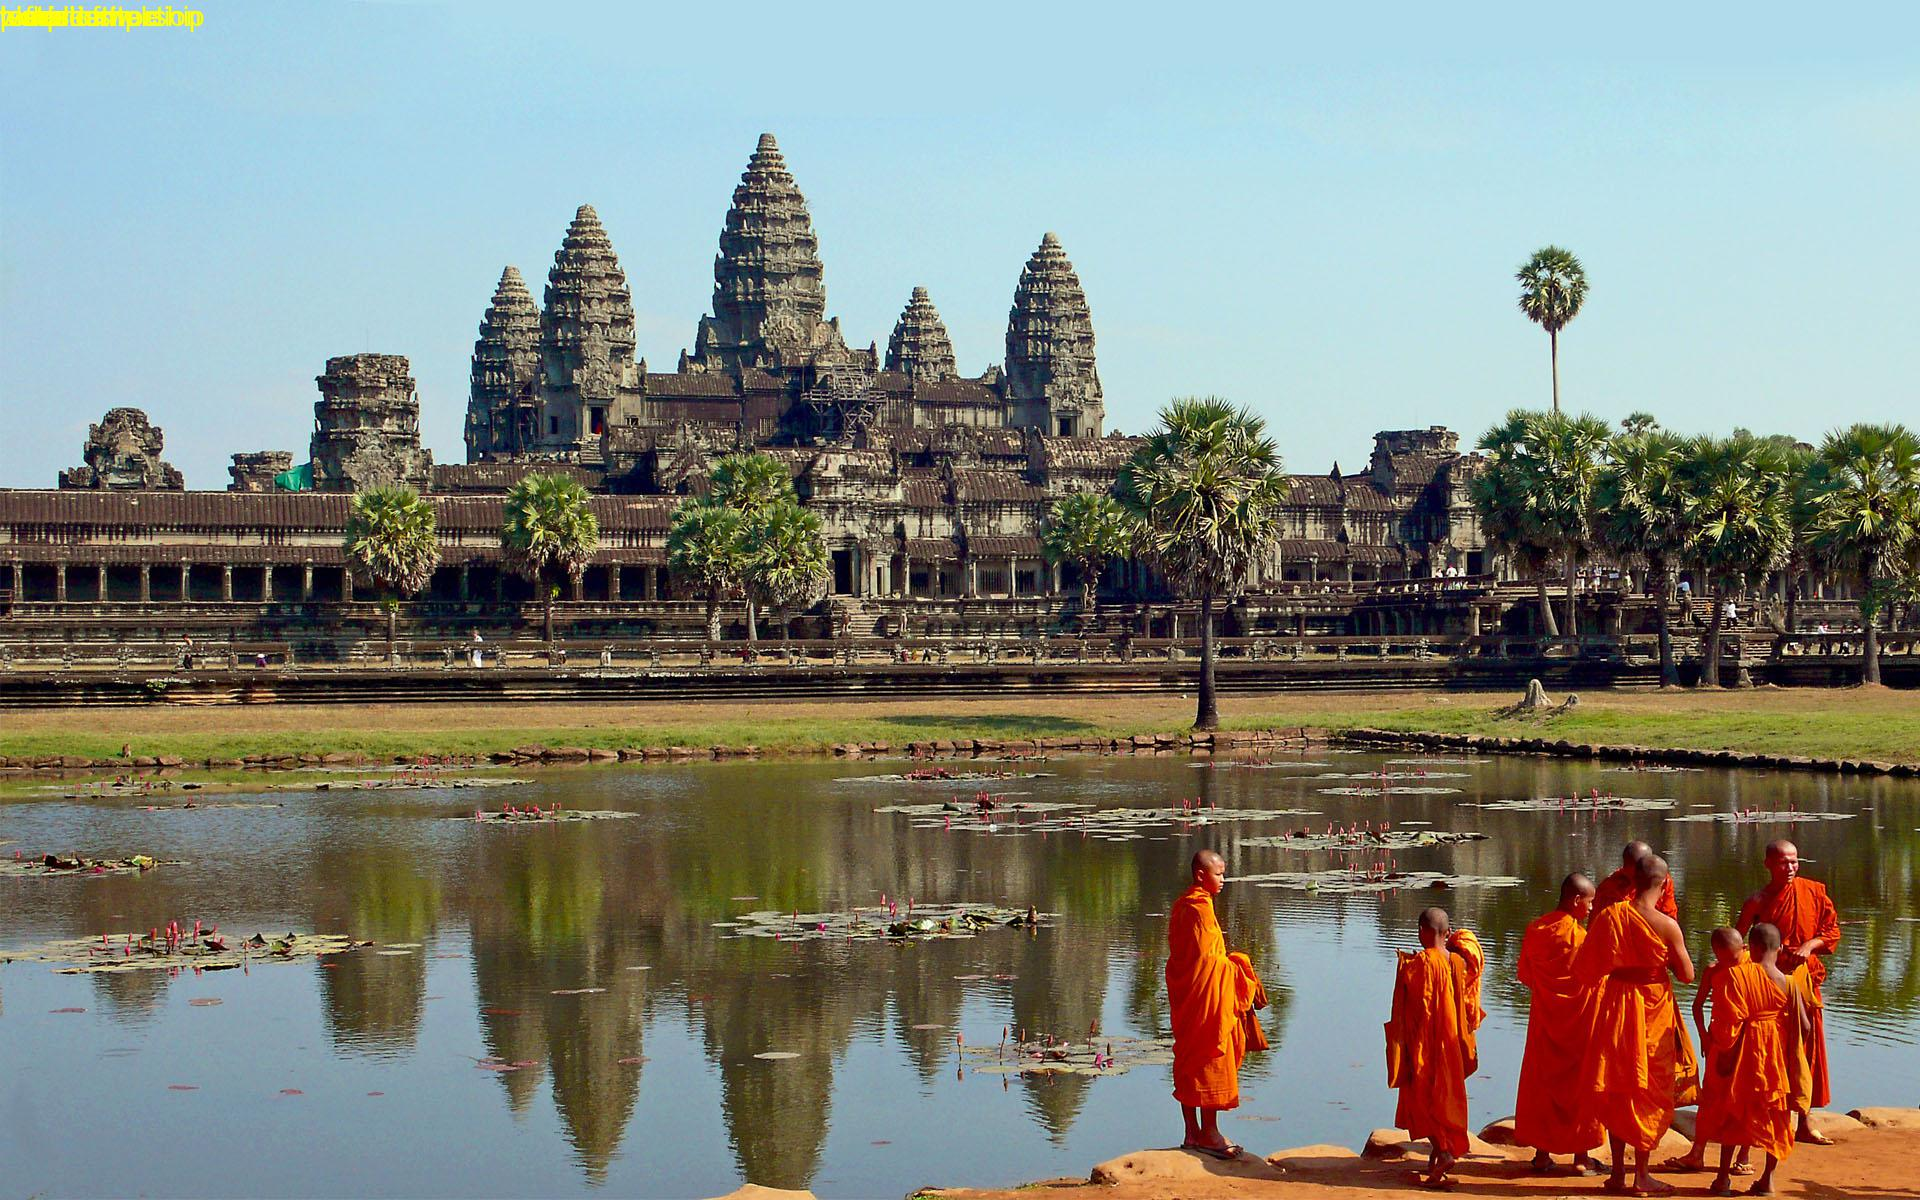
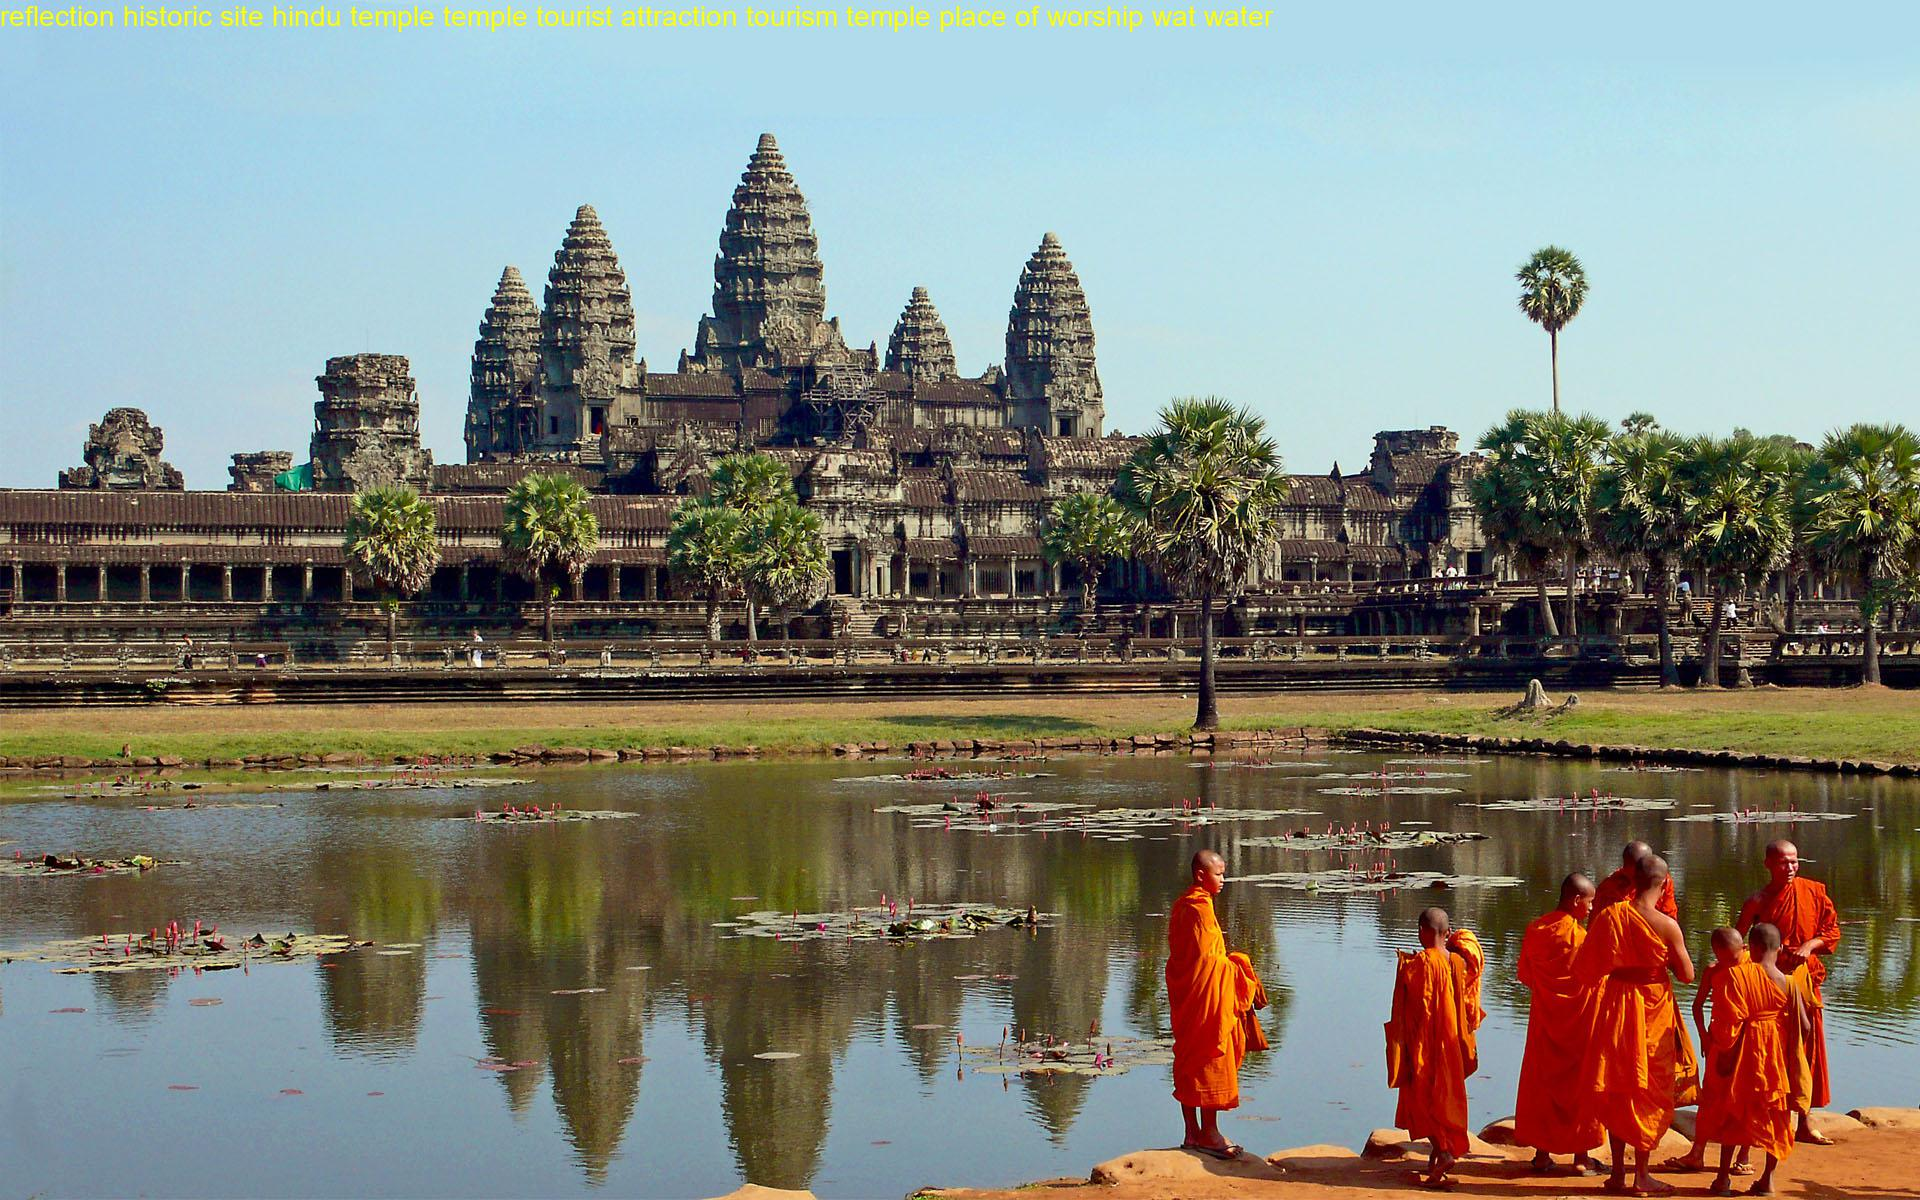
annotating image

Changed region(s): [[0.0, 0.0, 0.6562, 0.0308]]

diff --git a/API Assignment/vision_structured.py b/API Assignment/vision_structured.py
@@ -24,9 +24,28 @@ def get_images():
 
 	
 def label_images():
+	print('Labels and Landmarks:')
 	for i in length(file_name):
-		with io.open(file_name, 'rb') as image_file:
+		with io.open(file_name[i], 'rb') as image_file:
 		    content = image_file.read()
+		image = types.Image(content=content)
+		response1 = client.label_detection(image=image)
+		labels = response1.label_annotations
+		for label in labels:
+    		print(label.description)
+    		print(landmark.description)
+    		draw = ImageDraw.Draw(im)
+    		draw.text((0, 0),label.description,(255,255,0),font=font)
+    		draw.text((0, 0),landmark.description,(255,255,0),font=font)
+    		draw = ImageDraw.Draw(im1)
+    		im1.save('%s.jpg' % (file_name + str(uuid.uuid4())))
+
+
+
+
+
+
+
 
 
 

diff --git a/API Assignment/vision_API.py b/API Assignment/vision_API.py
@@ -33,15 +33,19 @@ image = types.Image(content=content)
 response = client.label_detection(image=image)
 labels = response.label_annotations
 
+label_list = []
+
 response = client.landmark_detection(image=image)
 landmarks = response.landmark_annotations
 
 print('Labels:')
 for label in labels:
     print(label.description)
-    draw = ImageDraw.Draw(im1)
-    draw.text((0, 0),label.description,(255,255,0),font=font)
-    draw = ImageDraw.Draw(im1)
+    label_list.append(label.description)
+label_string = ' '.join(label_list)
+draw = ImageDraw.Draw(im1)
+draw.text((0, 0),label_string,(255,255,0),font=font)
+draw = ImageDraw.Draw(im1)
 
 im1.save("marked_image.jpg")
 
